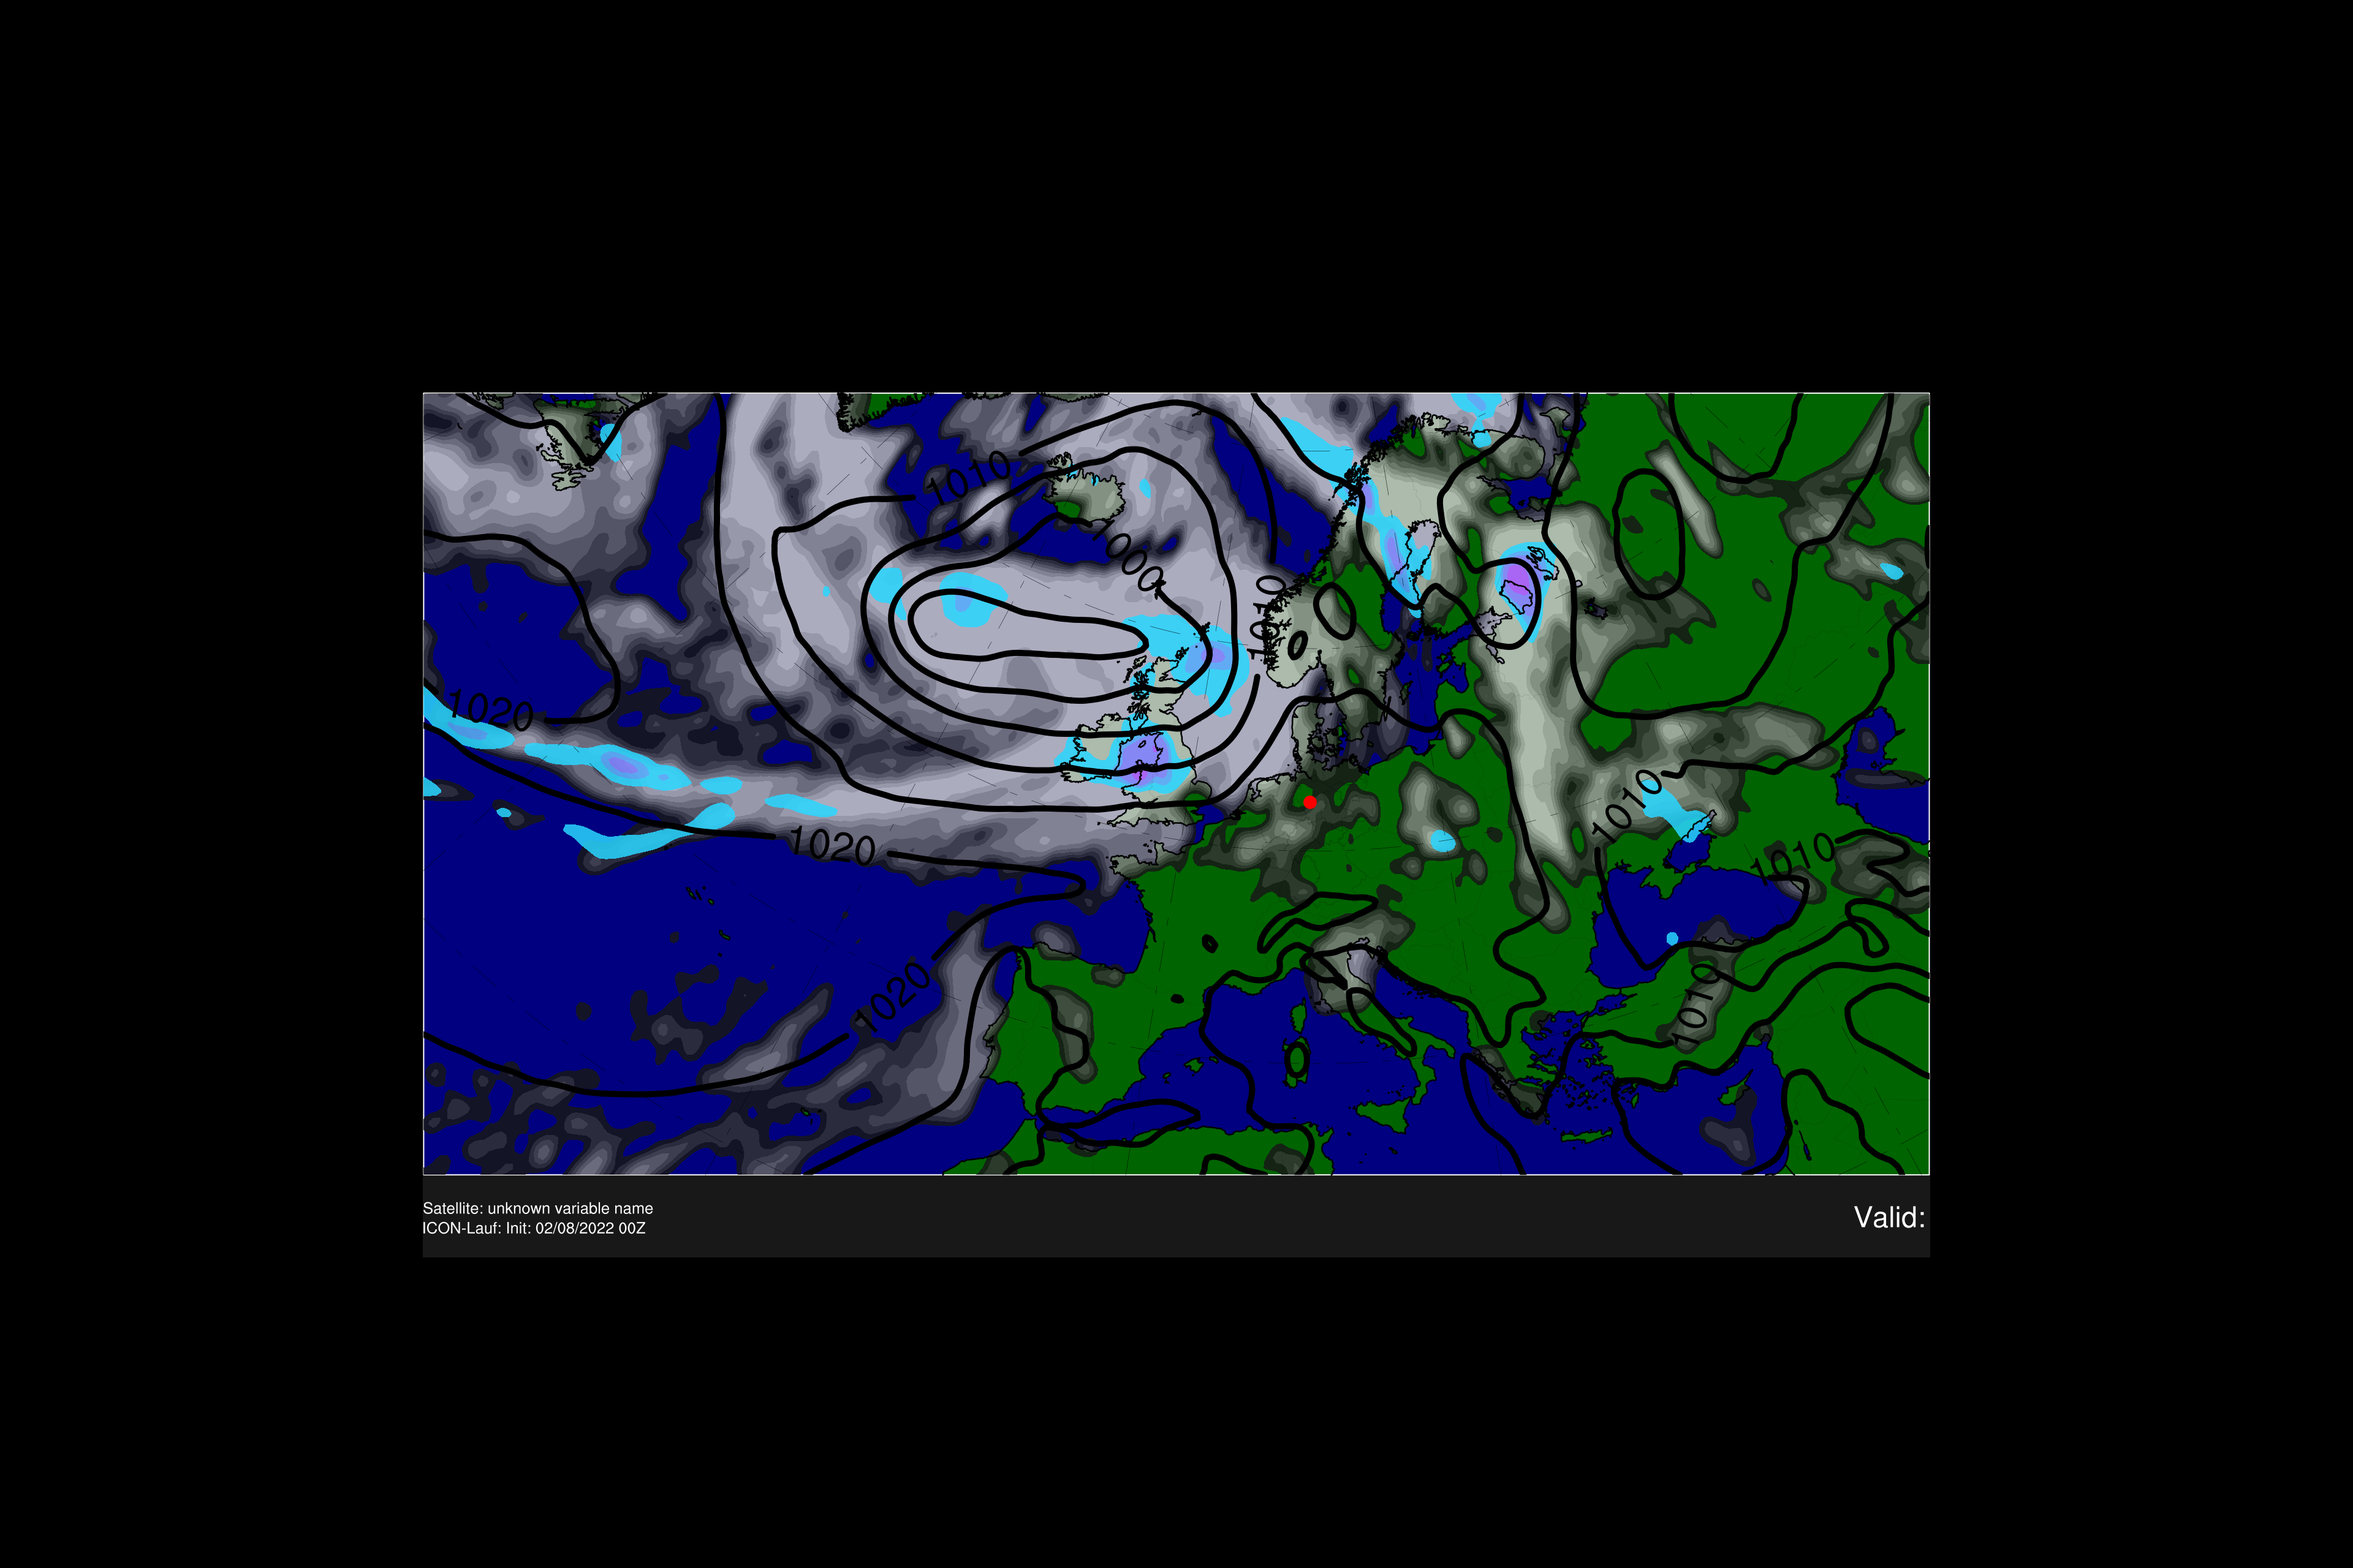
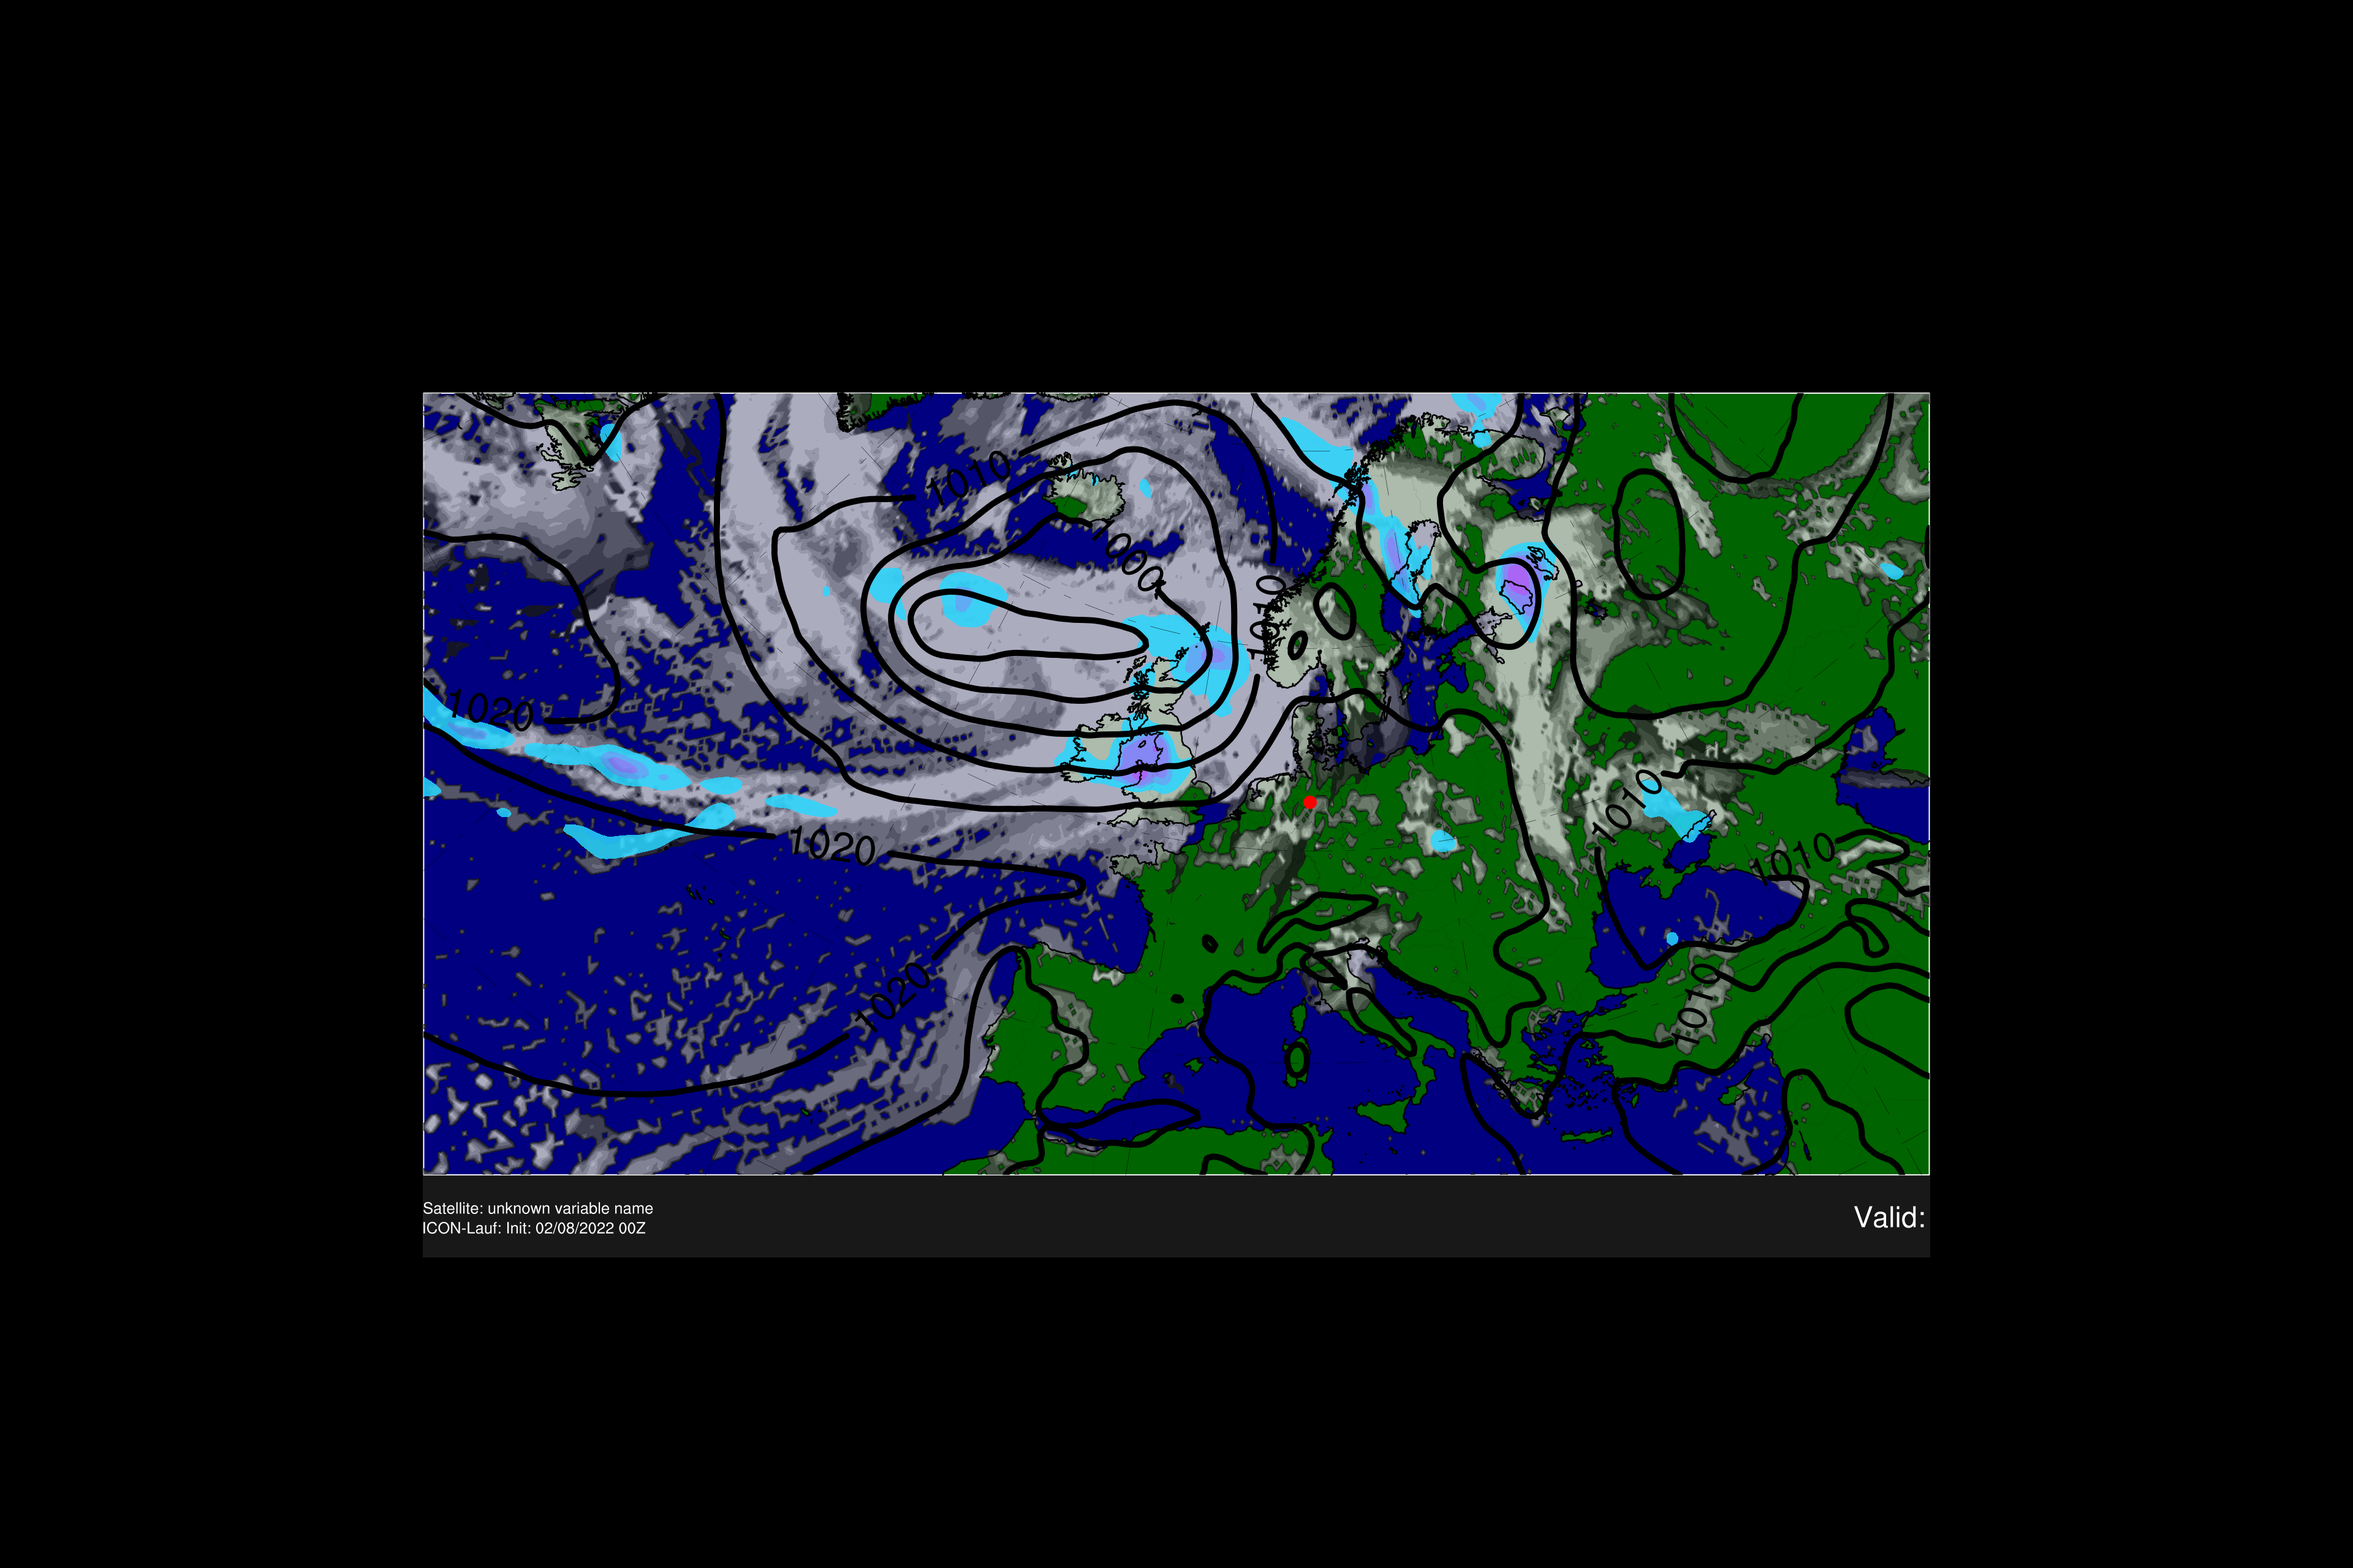
Update Readme

diff --git a/bd_sw_meteosat.py b/bd_sw_meteosat.py
@@ -100,7 +100,7 @@ ww = f4.variables["WIWW_P0_L1_GLL0"][4,:,:]
 
 #---- Preliminaries (2)
 
-clct = mpcalc.smooth_n_point(clct, 9, 4)
+#clct = mpcalc.smooth_n_point(clct, 9, 4)
 pmsl = mpcalc.smooth_n_point(pmsl, 9, 4)
 rain = mpcalc.smooth_n_point(rain, 9, 4)
 
